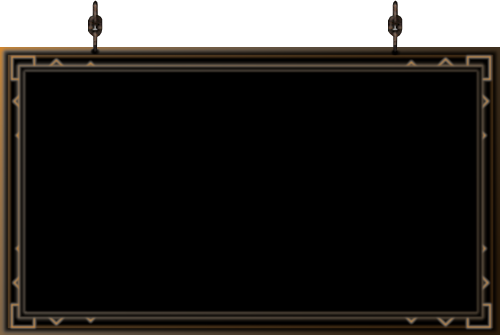
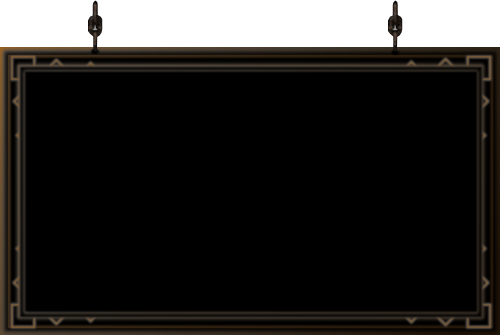
remove scroll box for windows based devices

diff --git a/src/components/Faq/Faq.js b/src/components/Faq/Faq.js
@@ -31,14 +31,14 @@ class Faq extends Component {
                   player-base as whole as possible.
                 </p>
               </li>
-              <li>
+              {/* <li>
                 <h3>Can I play this game solo?</h3>
                 <p>
                   Yes, you can. If you decide that multiplayer isn't for you
                   then you can download the server and host it locally and play
                   that way.
                 </p>
-              </li>
+              </li> */}
               <li>
                 <h3>Will it cost money to play when the server is hosted?</h3>
                 <p>
@@ -87,7 +87,7 @@ class Faq extends Component {
                   Instructions for set up will also be found there.
                 </p>
               </li>
-              <li>
+              {/* <li>
                 <h3>How do I report a bug?</h3>
                 <p>
                   We prefer you to report a bug Here:{' '}
@@ -100,7 +100,7 @@ class Faq extends Component {
                   (Click on the New Issue button and describe the problem and we
                   will try to get on it as soon as possible).
                 </p>
-              </li>
+              </li> */}
               <li>
                 <h3>When will this be playable?</h3>
                 <p>

diff --git a/src/components/Faq/Faq.css b/src/components/Faq/Faq.css
@@ -8,13 +8,15 @@
   color: white;
   /* background-color: #222222; */
   border: #69503b 3px double;
-  margin-top: -5px;
+  border-bottom: none;
+  margin-top: -50px;
 }
 
 .faq-content {
-  max-height: 1020px;
-  overflow: scroll;
-  margin-top: 40px;
+  height: 1048px;
+  /* max-height: 1020px; */
+  overflow: hidden;
+  margin-top: 90px;
   padding-left: 10px;
   padding-right: 20px;
   color: #fefefedb;

diff --git a/src/components/Footer/Footer.css b/src/components/Footer/Footer.css
@@ -1,8 +1,8 @@
 .App-footer {
   width: 100%;
   background-image: url('./Footer_images/bg_footer.jpg');
-  background-size: 100% 250px;
-  background-repeat: no-repeat;
+  background-size: 2000px 250px;
+  background-repeat: repeat-x;
   height: 250px;
   color: white;
   text-align: left;
